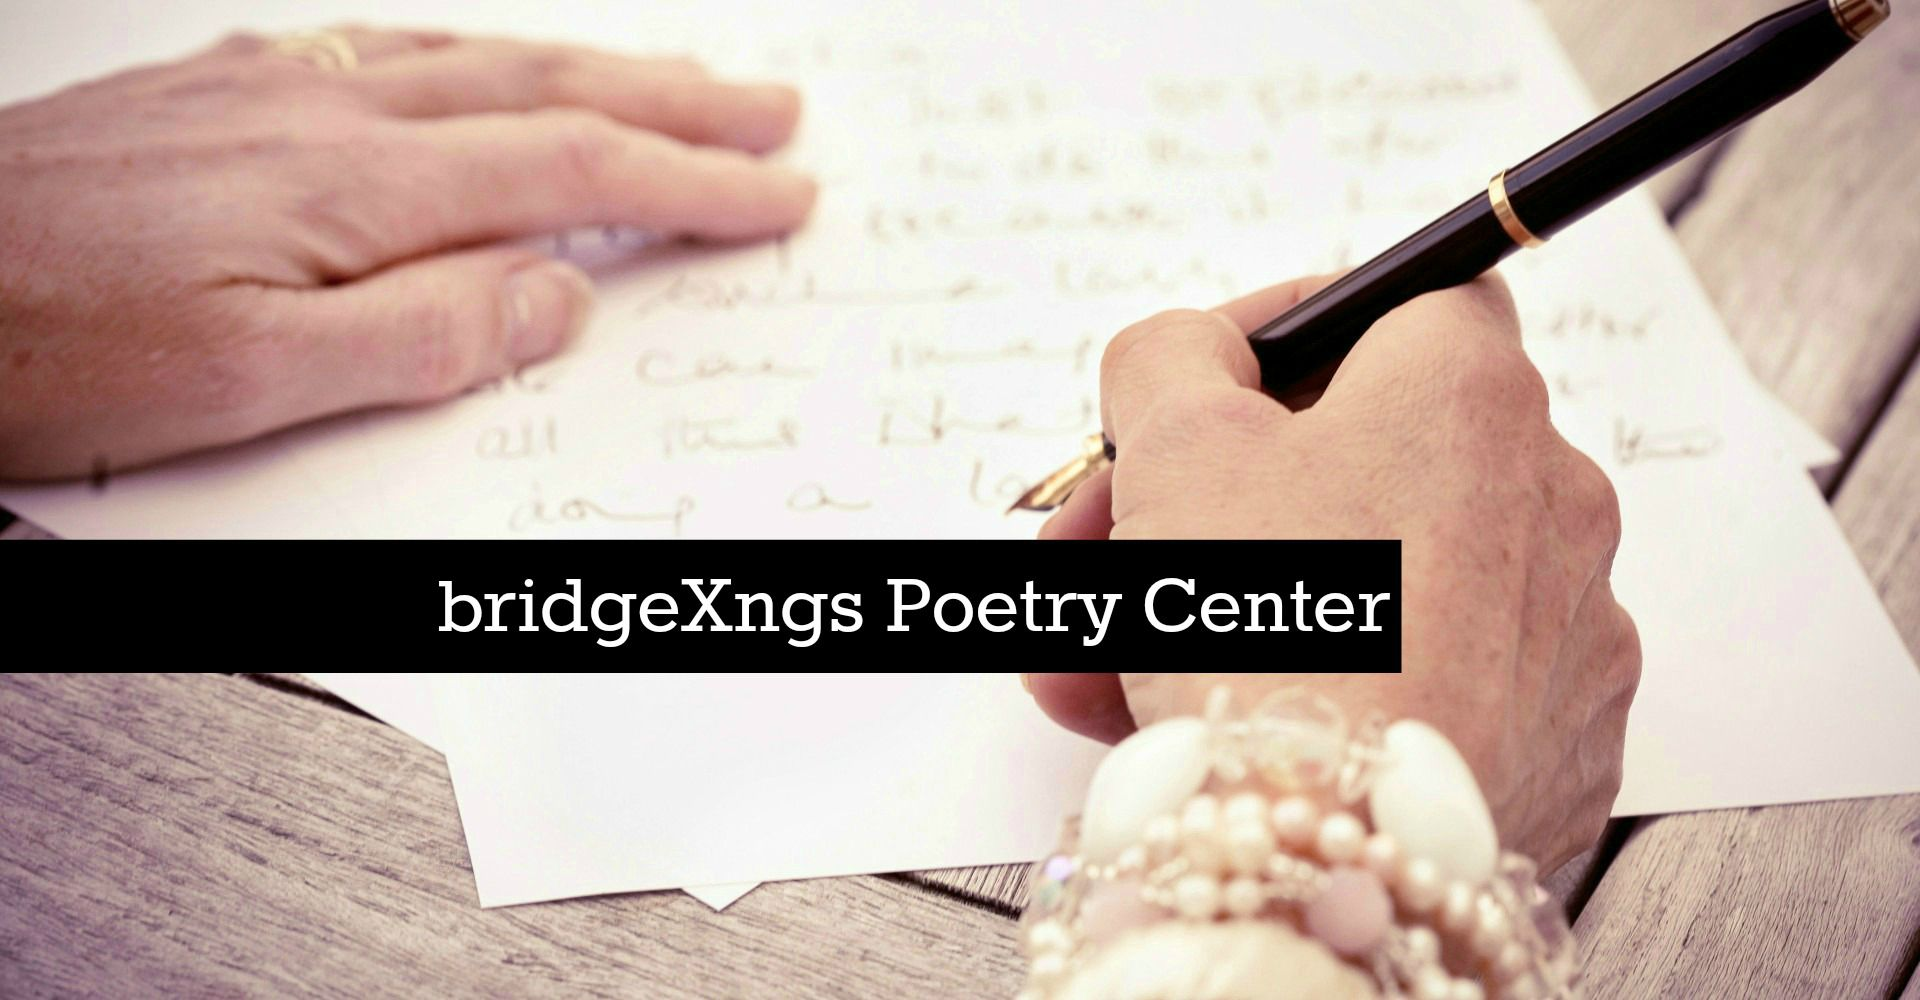
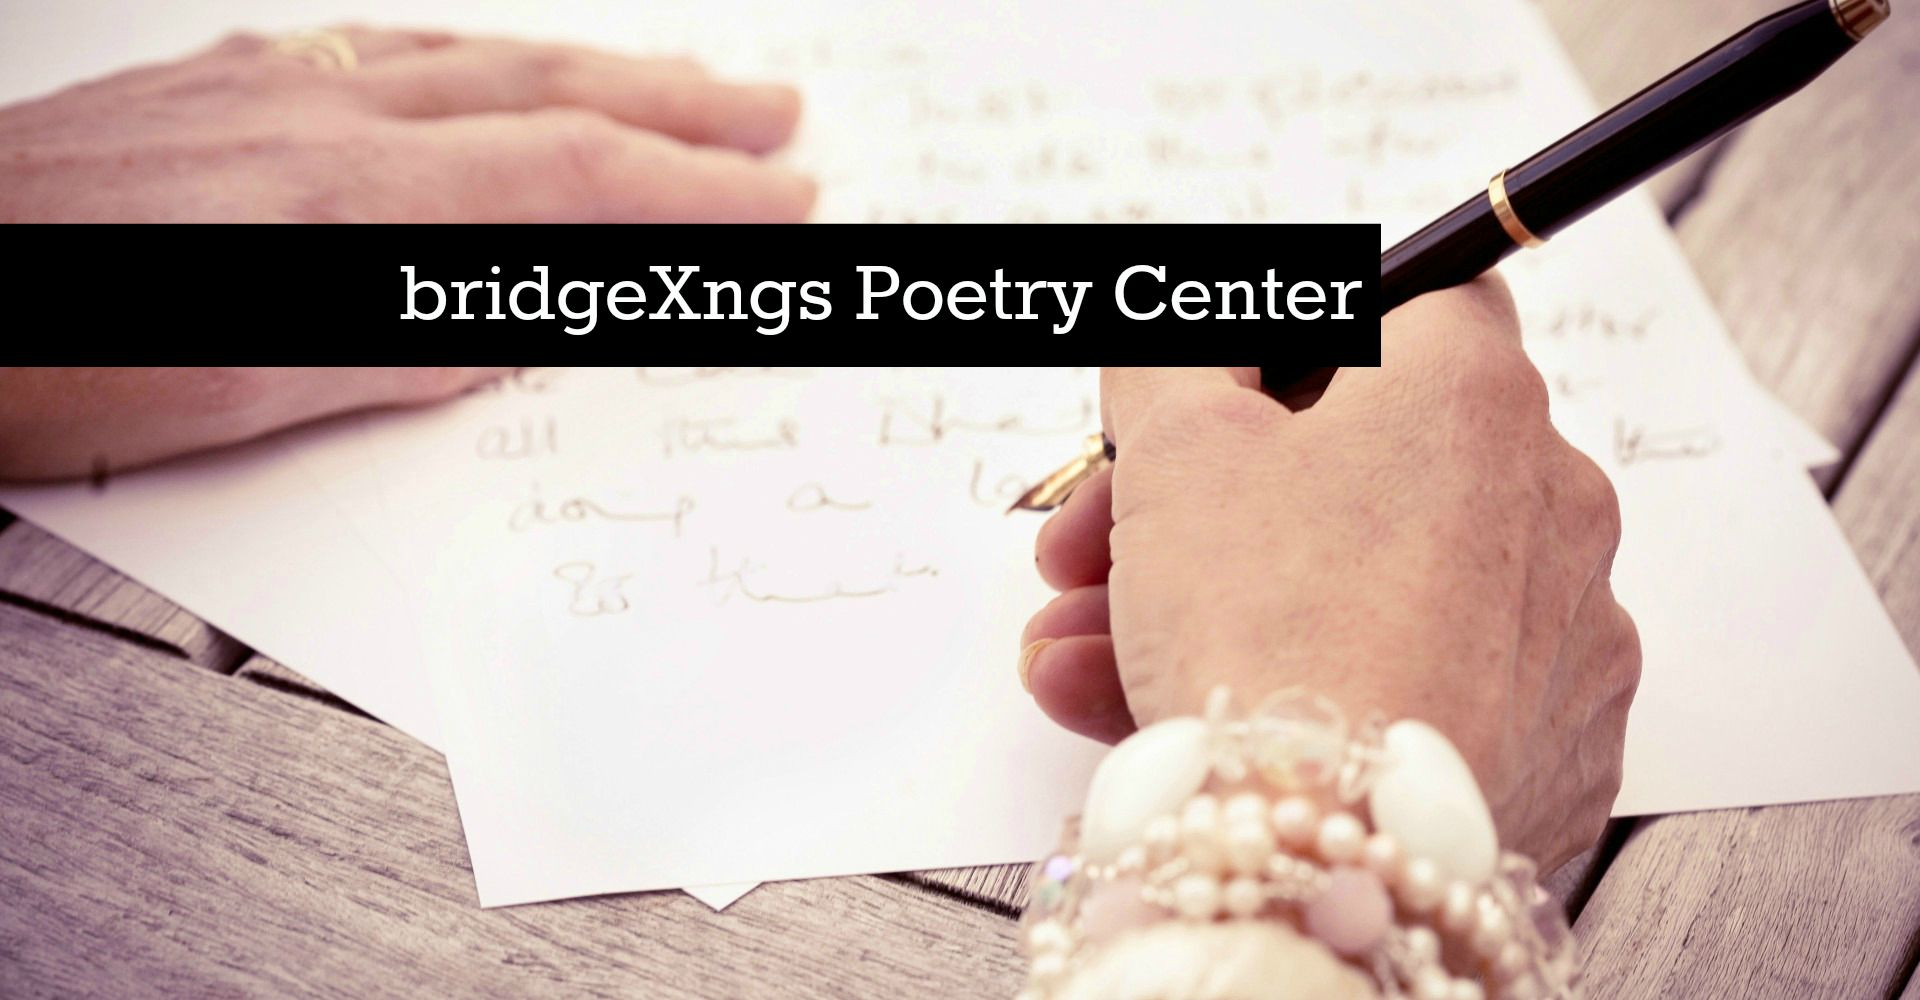
drup

Changed region(s): [[0.0, 0.527, 0.75, 0.682], [0.0, 0.217, 0.7188, 0.372]]

diff --git a/sites/all/themes/bootstrap/bridgestrap/css/bridgecrossings.css b/sites/all/themes/bootstrap/bridgestrap/css/bridgecrossings.css
@@ -38,15 +38,16 @@ header {
   position: relative;
 }
 
+/*small*/
 .frontheader {
-  background-image: url('../images/penwritingmed2.jpg');
+  background-image: url('../images/penwritingwide4small.jpg');
   background-size: cover;
   background-position: center center;
-  height: 1000px;
+  height: 666px;
 }
 
 .interiorheader {
-  background-image: url('../images/interiorheader.jpg');
+  background-image: url('../images/interiorheadersmall.jpg');
   background-size: cover;
   background-position: left center;
   margin-top: 48px;
@@ -88,16 +89,9 @@ header .intro-text .intro-heading {
 
 @media (min-width: 768px) {
   .frontheader {
-    background-image: url('../images/penwritingwide5.jpg')
+    background-image: url('../images/penwritingwide4small.jpg');
+    height: 1000px;
   }
-
-  /*.interiorheader {
-    background-image: url('../images/interiorheader.jpg');
-    background-size: 100%;
-    background-position: top;
-    margin-top: 48px;
-  }*/
-
   header .intro-text {
     text-align: right;
     padding-top: 250px;
@@ -118,15 +112,49 @@ header .intro-text .intro-heading {
 @media (min-width: 1200px) {
   .frontheader {
     background-image: url('../images/penwritingwide4.jpg');
+    height: 1000px;
   }
+  header .intro-text {
+    text-align: right;
+    padding-top: 500px;
+    min-height: 1000px;
+  }
+  header .intro-text .intro-heading {
+    text-transform: uppercase;
+    font-weight: 700;
+    font-size:33px;
+    line-height: 33px;
+    margin: 0px;
+    padding: 15px;
+    background: rgba(255, 255, 255, 0.5);
+  }
+}
 
-  /*.interiorheader {
+@media (min-width: 768px) {
+  .interiorheader {
+    background-image: url('../images/interiorheader.jpg')
+  }
+  header .intro-text {
+    text-align: right;
+    padding-top: 250px;
+    padding-bottom: 250px;
+    min-height: 500px;
+  }
+  header .intro-text .intro-heading {
+    text-transform: uppercase;
+    font-weight: 700;
+    font-size: 30px;
+    line-height: 30px;
+    margin: 0px;
+    padding: 15px;
+    background: rgba(255, 255, 255, 0.5);
+  }
+}
+
+@media (min-width: 1200px) {
+  .interiorheader {
     background-image: url('../images/interiorheader.jpg');
-    background-size: 100%;
-    background-position: left;
-    margin-top: 48px;
-  }*/
-
+  }
   header .intro-text {
     text-align: right;
     padding-top: 500px;
@@ -694,7 +722,7 @@ table {
   color: black;
 }
 
-table#poempuzzle th, tr {
+.poempuzzle table, .poempuzzle tr, .poempuzzle th {
   border-spacing: 20px;
   padding: 15px;
   border-collapse: collapse;

diff --git a/css/bridgecrossings.css b/css/bridgecrossings.css
@@ -53,7 +53,7 @@ header .intro-text .intro-heading {
 
 @media (min-width: 768px) {
   .frontheader {
-    background-image: url('../images/penwritingwide5.jpg')
+    background-image: url('../images/penwritingwide4.jpg')
   }
 
   /*.interiorheader {
@@ -585,7 +585,7 @@ a:link, a:visited, a:hover, a:active {
   text-align: center;
 }
 
-table#poempuzzle th, tr {
+.poempuzzle table, .poempuzzle tr, .poempuzzle th {
   border-spacing: 20px;
   padding: 15px;
   border-collapse: collapse;

diff --git a/poempuzzle.html b/poempuzzle.html
@@ -93,7 +93,7 @@
       </div>
       <div class="col-xs-8 col-sm-8 col-md-8 col-lg-8 col-xl-8">
         <br>
-        <table id="poempuzzle" class="poempuzzle">
+        <table class="poempuzzle">
           <tr>
             <th><a href="puzzleanswers#candle">CANDLE as in BURNS</a></th>
             <th><a href="puzzleanswers#heart">HEART as in WE WILL FORGET</a></th>

diff --git a/sites/all/themes/bootstrap/bridgestrap/templates/page--front.tpl.php b/sites/all/themes/bootstrap/bridgestrap/templates/page--front.tpl.php
@@ -97,7 +97,7 @@
                 <a href="#page-top"></a>
               </li>
               <li>
-                <a class="page-scroll" href="">bridgeXngs</a>
+                <a class="page-scroll" href="#">bridgeXngs</a>
               </li>
               <li>
                 <a class="page-scroll" href="moreabout">About Lila Weisberger</a>
@@ -184,7 +184,7 @@
       <div class="col-xs-12 col-sm-12 col-md-12 hidden-lg hidden-xl">
         <br>
         <div class="pic">
-          <img src="/bridgecrossings/sites/all/themes/bootstrap/bridgestrap/images/about1.png">
+          <img src="sites/all/themes/bootstrap/bridgestrap/images/about1.png">
         </div>
         <br>
         <div class="text">
@@ -196,7 +196,7 @@
           <tr>
             <td class="tdpic">
                 <div class="pic">
-                  <img src="/bridgecrossings/sites/all/themes/bootstrap/bridgestrap/images/about1.png">
+                  <img src="sites/all/themes/bootstrap/bridgestrap/images/about1.png">
                 </div>
             </td>
             <td class="tdtext">
@@ -214,7 +214,7 @@
       <div class="col-xs-12 col-sm-12 col-md-12 hidden-lg hidden-xl">
         <br>
         <div class="pic">
-          <img src="/bridgecrossings/sites/all/themes/bootstrap/bridgestrap/images/about2.jpg">
+          <img src="sites/all/themes/bootstrap/bridgestrap/images/about2.jpg">
         </div>
         <br>
         <div class="text">
@@ -231,7 +231,7 @@
           </td>
           <td class="tdpic">
               <div class="pic">
-                <img src="/bridgecrossings/sites/all/themes/bootstrap/bridgestrap/images/about2.jpg">
+                <img src="sites/all/themes/bootstrap/bridgestrap/images/about2.jpg">
               </div>
           </td>
         </tr>
@@ -244,7 +244,7 @@
       <div class="col-xs-12 col-sm-12 col-md-12 hidden-lg hidden-xl">
         <br>
         <div class="pic">
-          <img src="/bridgecrossings/sites/all/themes/bootstrap/bridgestrap/images/about3.jpg">
+          <img src="sites/all/themes/bootstrap/bridgestrap/images/about3.jpg">
         </div>
         <br>
         <div class="text">
@@ -256,7 +256,7 @@
         <tr>
           <td class="tdpic">
               <div class="pic">
-                <img src="/bridgecrossings/sites/all/themes/bootstrap/bridgestrap/images/about3.jpg">
+                <img src="sites/all/themes/bootstrap/bridgestrap/images/about3.jpg">
               </div>
           </td>
           <td class="tdtext">

diff --git a/sites/all/themes/bootstrap/bridgestrap/templates/page.tpl.php b/sites/all/themes/bootstrap/bridgestrap/templates/page.tpl.php
@@ -97,7 +97,7 @@
                 <a href="#page-top"></a>
               </li>
               <li>
-                <a class="page-scroll" href="/bridgecrossings">bridgeXngs</a>
+                <a class="page-scroll" href="/">bridgeXngs</a>
               </li>
               <li>
                 <a class="page-scroll" href="moreabout">About Lila Weisberger</a>
